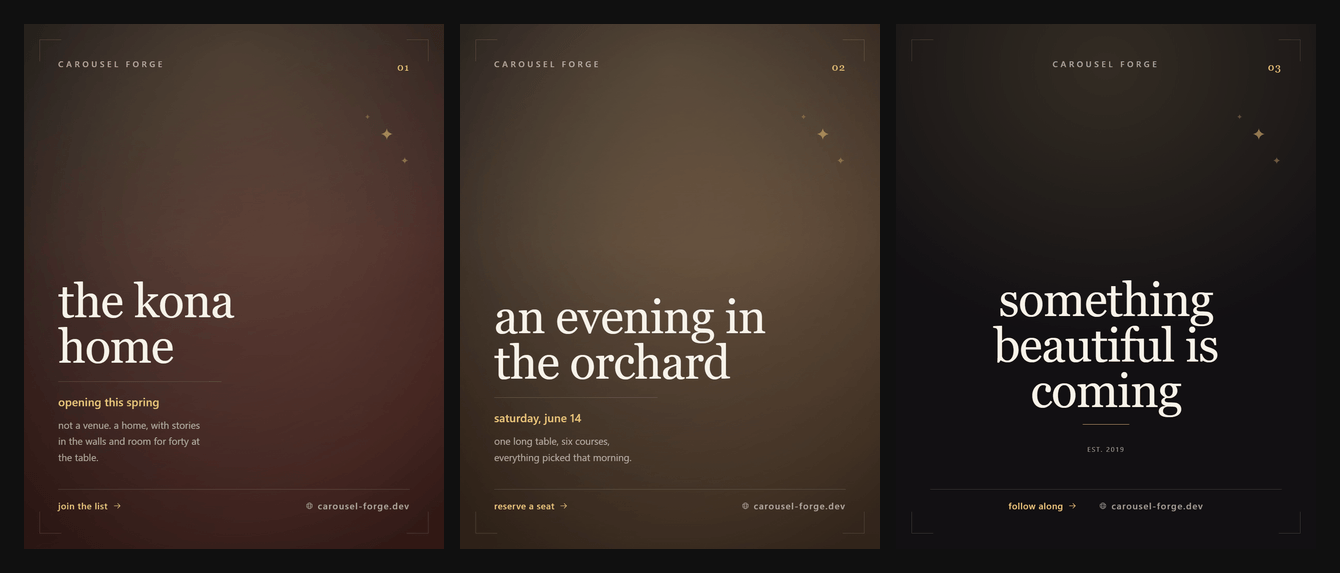
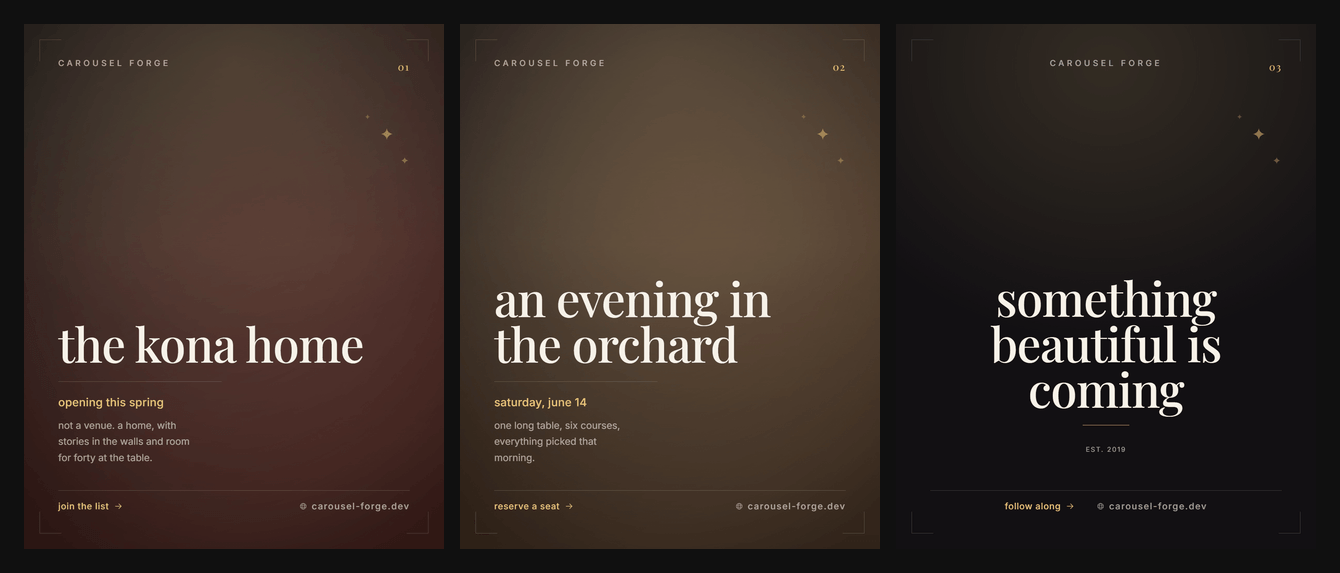
fix(fonts): cache one deliberate subset, and stop workers corrupting it
This is the intermittent CI determinism failure, and it was the font cache,
not the adaptive overlay. The new input-level assertion in the determinism
test named it directly: "the @font-face CSS differs between build 1 and
build 2".

Two defects, both only reachable when several builds share a cold cache:

1. The temporary file used for the atomic rename was named after the process
   id. Vitest runs test files in worker *threads*, so concurrent writers
   shared a pid, wrote the same temporary file at once, and one of them
   renamed the interleaved result into place. Named per call now.

2. Google returns one `@font-face` block per unicode-range subset and every
   subset of a weight collapses onto the same cache filename. The old code
   downloaded all seven and let the last write win, so two racing builds could
   leave different bytes under the same name depending on how far each got.
   The subset is now chosen before anything is downloaded, and downloaded
   once.

Choosing the subset explicitly exposed a second, worse bug that had been
invisible: before the atomic-write change the *first* subset won, which is
`cyrillic-ext`. Any cache populated by that code held fonts with no latin
glyphs, so Chromium silently fell back to a system font for every latin
character. The committed theme previews were rendered that way. They are
regenerated here in the real Playfair Display, Cormorant and Inter.
[…]

diff --git a/src/fonts/google.ts b/src/fonts/google.ts
@@ -1,4 +1,5 @@
 import { promises as fs } from 'node:fs';
+import { randomUUID } from 'node:crypto';
 import os from 'node:os';
 import path from 'node:path';
 import { ensureDir, listFiles, pathExists } from '../util/fs.js';
@@ -93,9 +94,14 @@ function looksLikeFont(bytes: Buffer): boolean {
  * Write a font into the cache via a temporary file in the same directory.
  * A half-written woff2 that keeps its final name would be reused by every
  * later build on this machine, which is a permanent, invisible corruption.
+ *
+ * The temporary name has to be unique per call, not per process. Vitest runs
+ * test files in worker *threads*, so two concurrent writers share a pid; a
+ * pid-based temporary name means both write the same file at once and one of
+ * them renames the interleaved result into place.
  */
 async function commitFont(file: string, bytes: Buffer): Promise<void> {
-  const tmp = `${file}.${process.pid}.tmp`;
+  const tmp = `${file}.${randomUUID()}.tmp`;
   await fs.writeFile(tmp, bytes);
   await fs.rename(tmp, file);
 }
@@ -148,10 +154,31 @@ export async function ensureGoogleFonts(requests: FontRequest[]): Promise<FontFa
       // machine finds those files cached and renders the real glyphs. Same
       // inputs, different pixels, and only ever on the first build after a
       // network hiccup - the hardest possible thing to reproduce.
-      const staged: { file: string; bytes: Buffer }[] = [];
+      // Google returns one `@font-face` block per unicode-range subset, and
+      // every subset of a weight collapses onto the same cache filename. Pick
+      // the subset deliberately and download it once.
+      //
+      // Downloading each block in turn and letting the last write win means
+      // two builds racing on a cold cache can leave different bytes under the
+      // same name, depending on how far each got before the other renamed its
+      // file into place - and it downloads seven files to keep one.
+      //
+      // The last block Google emits is `latin` (U+0000-00FF plus a handful of
+      // punctuation), which covers English and the accented characters of the
+      // Western European languages. Known limitation: text in Cyrillic, Greek,
+      // Vietnamese or the Latin-Extended range is not covered by this subset
+      // and the browser will fall back to a system font for those characters.
+      // Caching every subset instead would multiply the inlined font payload
+      // by seven, so that trade is left for when a theme actually needs it.
+      const chosen = new Map<string, ParsedFace>();
       for (const face of parseGoogleCss(css)) {
         if (!request.weights.includes(face.weight)) continue;
         if (!request.styles.includes(face.style)) continue;
+        chosen.set(`${face.weight}|${face.style}`, face);
+      }
+
+      const staged: { file: string; bytes: Buffer }[] = [];
+      for (const face of chosen.values()) {
         const file = cacheFileFor(request.family, face.weight, face.style);
         if (await pathExists(file)) continue;
         const bytes = await download(face.url);

diff --git a/tests/fonts.test.ts b/tests/fonts.test.ts
@@ -161,6 +161,33 @@ describe('font cache writes', () => {
     expect(await fs.readdir(fontCacheDir())).toEqual([]);
   });
 
+  /**
+   * Google emits one `@font-face` block per unicode-range subset, and every
+   * subset of a weight collapses onto the same cache filename. Downloading
+   * each in turn and letting the last write win means two builds racing on a
+   * cold cache can leave different bytes under the same name. Choose once,
+   * download once.
+   */
+  it('downloads one subset per weight rather than every subset in turn', async () => {
+    const subsets = `
+      @font-face { font-family: 'Inter'; font-style: normal; font-weight: 400; src: url(https://x/400-cyrillic.woff2) format('woff2'); unicode-range: U+0301; }
+      @font-face { font-family: 'Inter'; font-style: normal; font-weight: 400; src: url(https://x/400-latin.woff2) format('woff2'); unicode-range: U+0000-00FF; }
+      @font-face { font-family: 'Inter'; font-style: normal; font-weight: 700; src: url(https://x/700-latin.woff2) format('woff2'); unicode-range: U+0000-00FF; }
+    `;
+    const fetched: string[] = [];
+    respond(async (url) => {
+      if (url.includes('css2')) return new Response(subsets, { status: 200 });
+      fetched.push(url);
+      return new Response(woff2(url.includes('cyrillic') ? 8 : 4), { status: 200 });
+    });
+
+    await ensureGoogleFonts(request);
+
+    expect(fetched).toEqual(['https://x/400-latin.woff2', 'https://x/700-latin.woff2']);
+    const cached = await fs.readFile(path.join(fontCacheDir(), 'inter-400-normal.woff2'));
+    expect(cached.equals(woff2Bytes(4))).toBe(true);
+  });
+
   it('leaves no temporary files behind', async () => {
     respond(async (url) => {
       if (url.includes('css2')) return new Response(CSS, { status: 200 });

diff --git a/README.md b/README.md
@@ -512,3 +512,10 @@ Themes and narratives are the most useful things to contribute. See
 MIT. Generated placeholder photos and the three shipped themes are part of
 this repository and carry the same licence. No commercial fonts are committed:
 Google Fonts are downloaded at build time into a local cache.
+
+Only the `latin` subset of each Google font is cached, which covers English
+and the accented characters of the Western European languages. Text in
+Cyrillic, Greek, Vietnamese or the Latin-Extended range will fall back to a
+system font, which also means it will not render identically on every machine.
+If you need one of those scripts, ship the font in your theme's `fonts/`
+directory instead.
